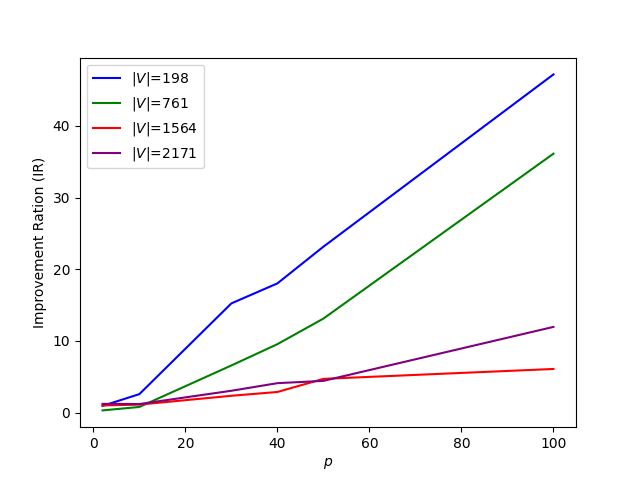
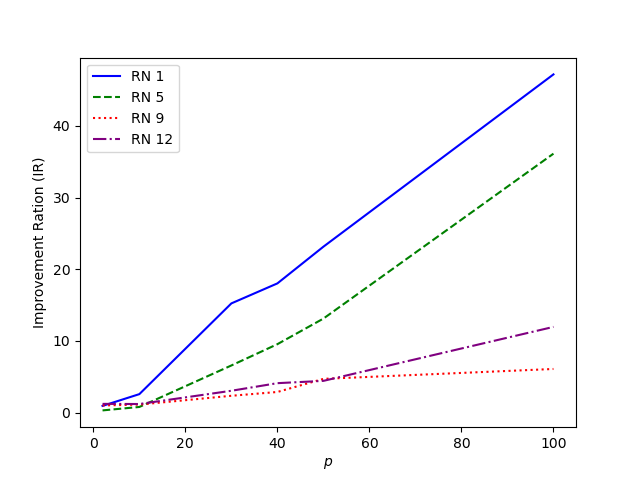
Calculating Mean and Median

diff --git a/Summarizing_Results/ECPM/ECPM_Branch_Cut/Results/Summarizing_results.py b/Summarizing_Results/ECPM/ECPM_Branch_Cut/Results/Summarizing_results.py
@@ -21,6 +21,13 @@ result['RN No.']=range(1, len(result) + 1)
 result['RN Name'] = result['RN Name'].str.replace('CARP_','').str.replace('_graph.dat', '').str.split('_').apply(lambda x: '\\_'.join(x))
 
 results_final=result[['RN No.','RN Name','$|V|$','$|E|$','NBV','Branch_Cut_Time','Total_Time_SP','Improvement Ratio']]
+
+mean_value = results_final['Improvement Ratio'].mean(skipna=True)
+median_value = results_final['Improvement Ratio'].median(skipna=True)
+
+print(mean_value)
+print(median_value)
+
 pd.options.display.float_format = '{:.2f}'.format
 # Convert DataFrame to LaTeX code
 latex_code = results_final.to_latex(index=False, escape=False,na_rep='-',formatters={'$|E|$': '{:,.0f}'.format,'$|V|$': '{:,.0f}'.format,'NBV': '{:,.0f}'.format, 'Branch_Cut_Time': '{:,.0f}'.format,'Total_Time_SP': '{:,.0f}'.format,'Improvement Ratio': '{:,.2f}'.format})
@@ -31,22 +38,21 @@ with open('dataframe_table.tex', 'w') as file:
     file.write(latex_code)
 
 
-# nodes=[198,761,1564,2171]
-# condition1 = df['No. of Nodes'] == 198
-# condition2 = df['No. of Nodes'] == 761
-# condition3 = df['No. of Nodes'] == 1564
-# condition4 = df['No. of Nodes'] == 2171
+RN=[1,5,9,12]
+condition1 = df['Instance_name'] == 'CARP_F15_g_graph.dat'
+condition2 = df['Instance_name'] == 'CARP_O12_g_graph.dat'
+condition3 = df['Instance_name'] == 'CARP_S11_g_graph.dat'
+condition4 = df['Instance_name'] == 'CARP_N15_g_graph.dat'
 #
-# fig, ax = plt.subplots()
-# # Plot for condition1
-# plt.plot(df[condition1]['No. of Districts'],df[condition1]['Speedup'],linestyle='-', color='blue',label=r'$|V|$='+str(nodes[0]))
-# plt.plot(df[condition2]['No. of Districts'],df[condition2]['Speedup'],linestyle='-', color='green',label=r'$|V|$='+str(nodes[1]))
-# plt.plot(df[condition3]['No. of Districts'],df[condition3]['Speedup'],linestyle='-', color='red',label=r'$|V|$='+str(nodes[2]))
-# plt.plot(df[condition4]['No. of Districts'],df[condition4]['Speedup'],linestyle='-', color='purple',label=r'$|V|$='+str(nodes[3]))
-# plt.xlabel(r'$p$')
-# plt.ylabel('Improvement Ration (IR)')
-# ax.legend()
-#
-# plt.savefig('IR.png')
-# # Show the plots
-# plt.show()
+fig, ax = plt.subplots()
+# Plot for condition1
+plt.plot(df[condition1]['No. of Districts'],df[condition1]['Speedup'],linestyle='-', color='blue',label=r'RN '+str(RN[0]))
+plt.plot(df[condition2]['No. of Districts'],df[condition2]['Speedup'],linestyle='--', color='green',label=r'RN '+str(RN[1]))
+plt.plot(df[condition3]['No. of Districts'],df[condition3]['Speedup'],linestyle=':', color='red',label=r'RN '+str(RN[2]))
+plt.plot(df[condition4]['No. of Districts'],df[condition4]['Speedup'],linestyle='-.', color='purple',label=r'RN '+str(RN[3]))
+plt.xlabel(r'$p$')
+plt.ylabel('Improvement Ration (IR)')
+ax.legend()
+plt.savefig('IR.png')
+# Show the plots
+plt.show()

diff --git a/Summarizing_Results/EPM_Binary/Results/Summarizing_results.py b/Summarizing_Results/EPM_Binary/Results/Summarizing_results.py
@@ -4,7 +4,6 @@ import matplotlib.pyplot as plt
 df=pd.read_csv('Summary_Branch_Cut_SPC_ECPM.csv')
 df_1 = pd.read_csv('Summary_EPM.csv')
 df_2=pd.read_csv('SPC_Only_Summary.csv')
-
 df=pd.merge(df,df_1,on=['No. of Nodes','No. of Districts'], how='left',suffixes=('', '_df2'))
 df['Speedup'] = pd.to_numeric(df['Speedup'], errors='coerce')
 df = df.dropna()
@@ -20,6 +19,12 @@ result['RN No.']=range(1, len(result) + 1)
 result['RN Name'] = result['RN Name'].str.replace('CARP_','').str.replace('_graph.dat', '').str.split('_').apply(lambda x: '\\_'.join(x))
 results_final=result[['RN No.','RN Name','$|V|$','$|E|$','NBV','EPM_Time','Total_Time_SP','Improvement Ratio']]
 pd.options.display.float_format = '{:.2f}'.format
+results_g_1=results_final[results_final['Improvement Ratio']>1]
+mean_value = results_g_1['Improvement Ratio'].mean(skipna=True)
+median_value = results_g_1['Improvement Ratio'].median(skipna=True)
+print(mean_value)
+print(median_value)
+
 # Convert DataFrame to LaTeX code
 latex_code = results_final.to_latex(index=False, escape=False,na_rep='-',formatters={'$|E|$': '{:,.0f}'.format,'$|V|$': '{:,.0f}'.format,'NBV': '{:,.0f}'.format, 'Branch_Cut_Time': '{:,.0f}'.format,'Total_Time_SP': '{:,.0f}'.format,'EPM_Time': '{:,.0f}'.format,'Improvement Ratio': '{:,.2f}'.format})
 results_final.to_csv('Test.csv', index=False)
